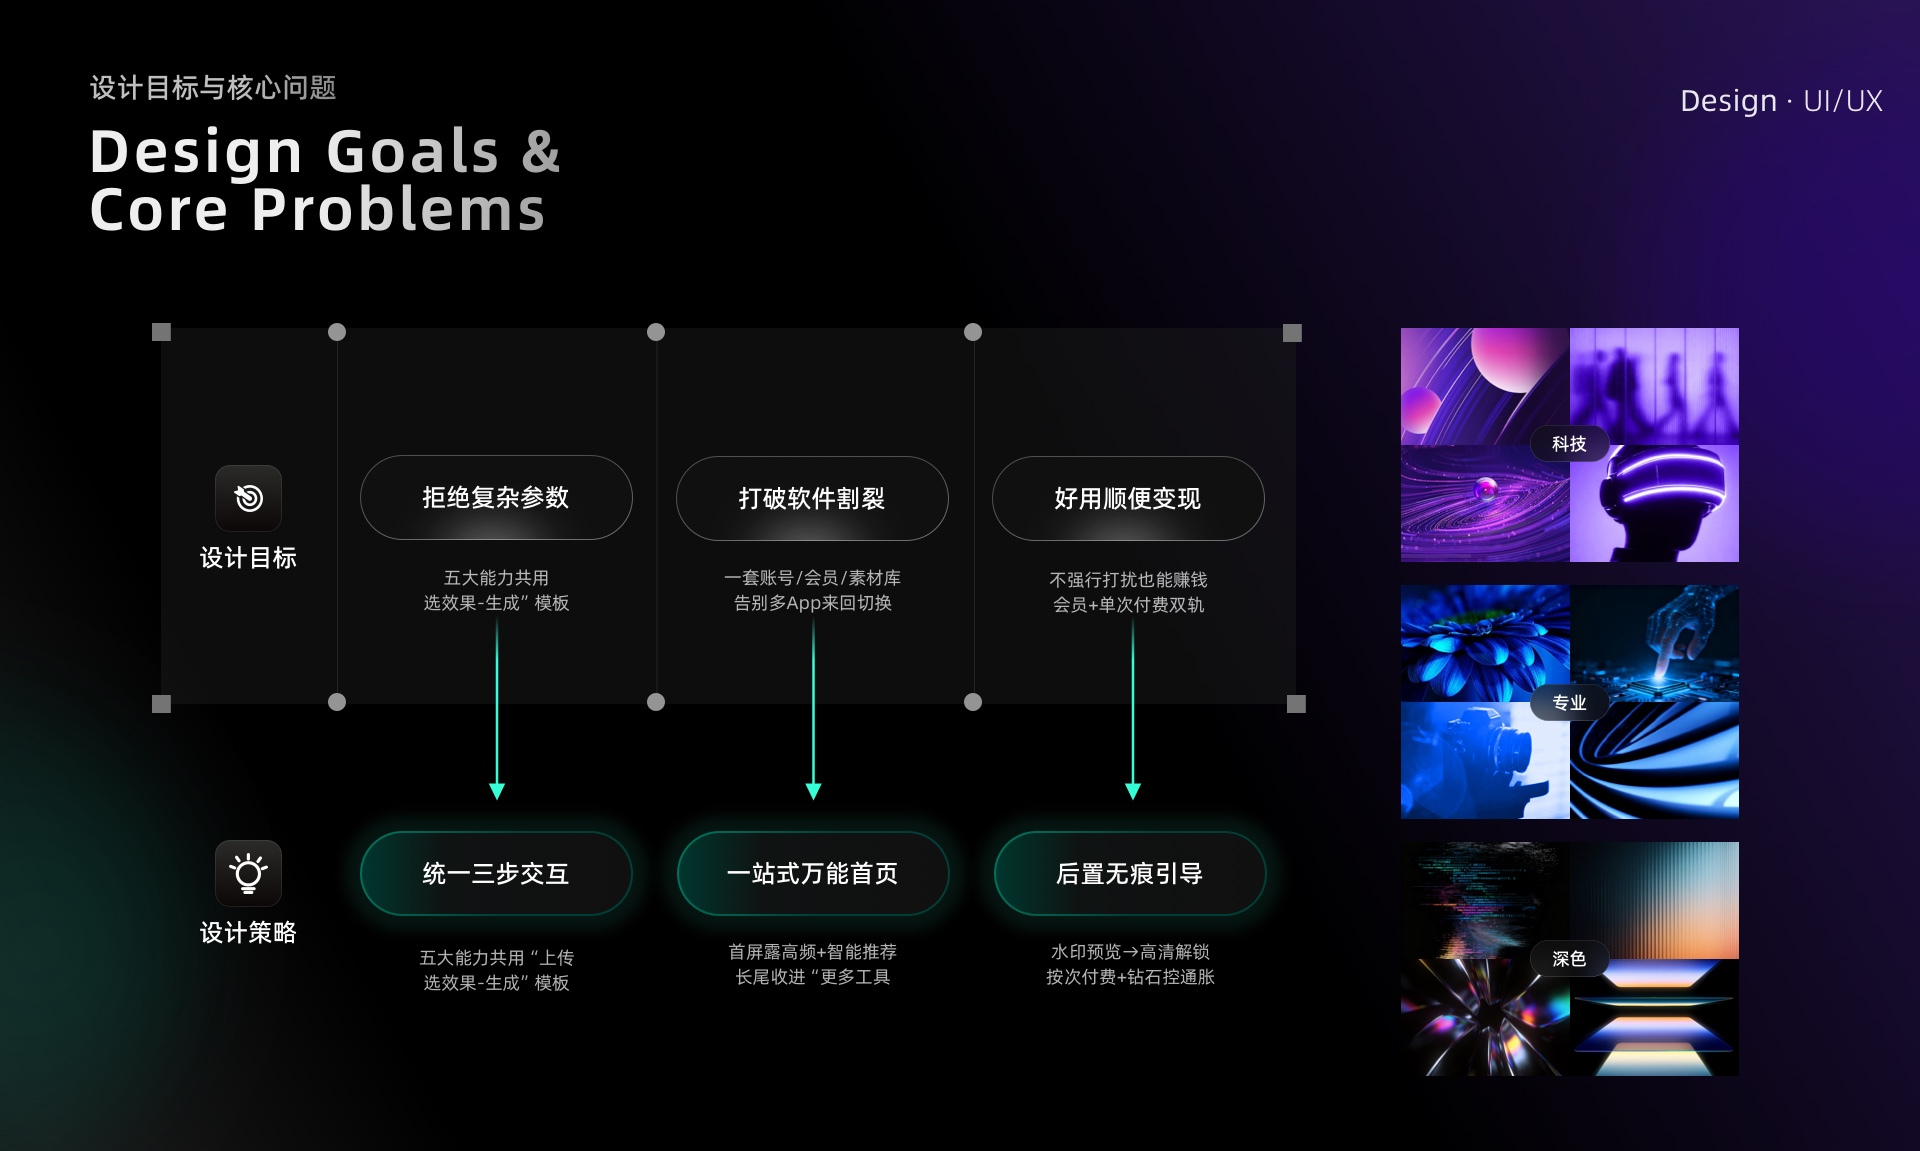
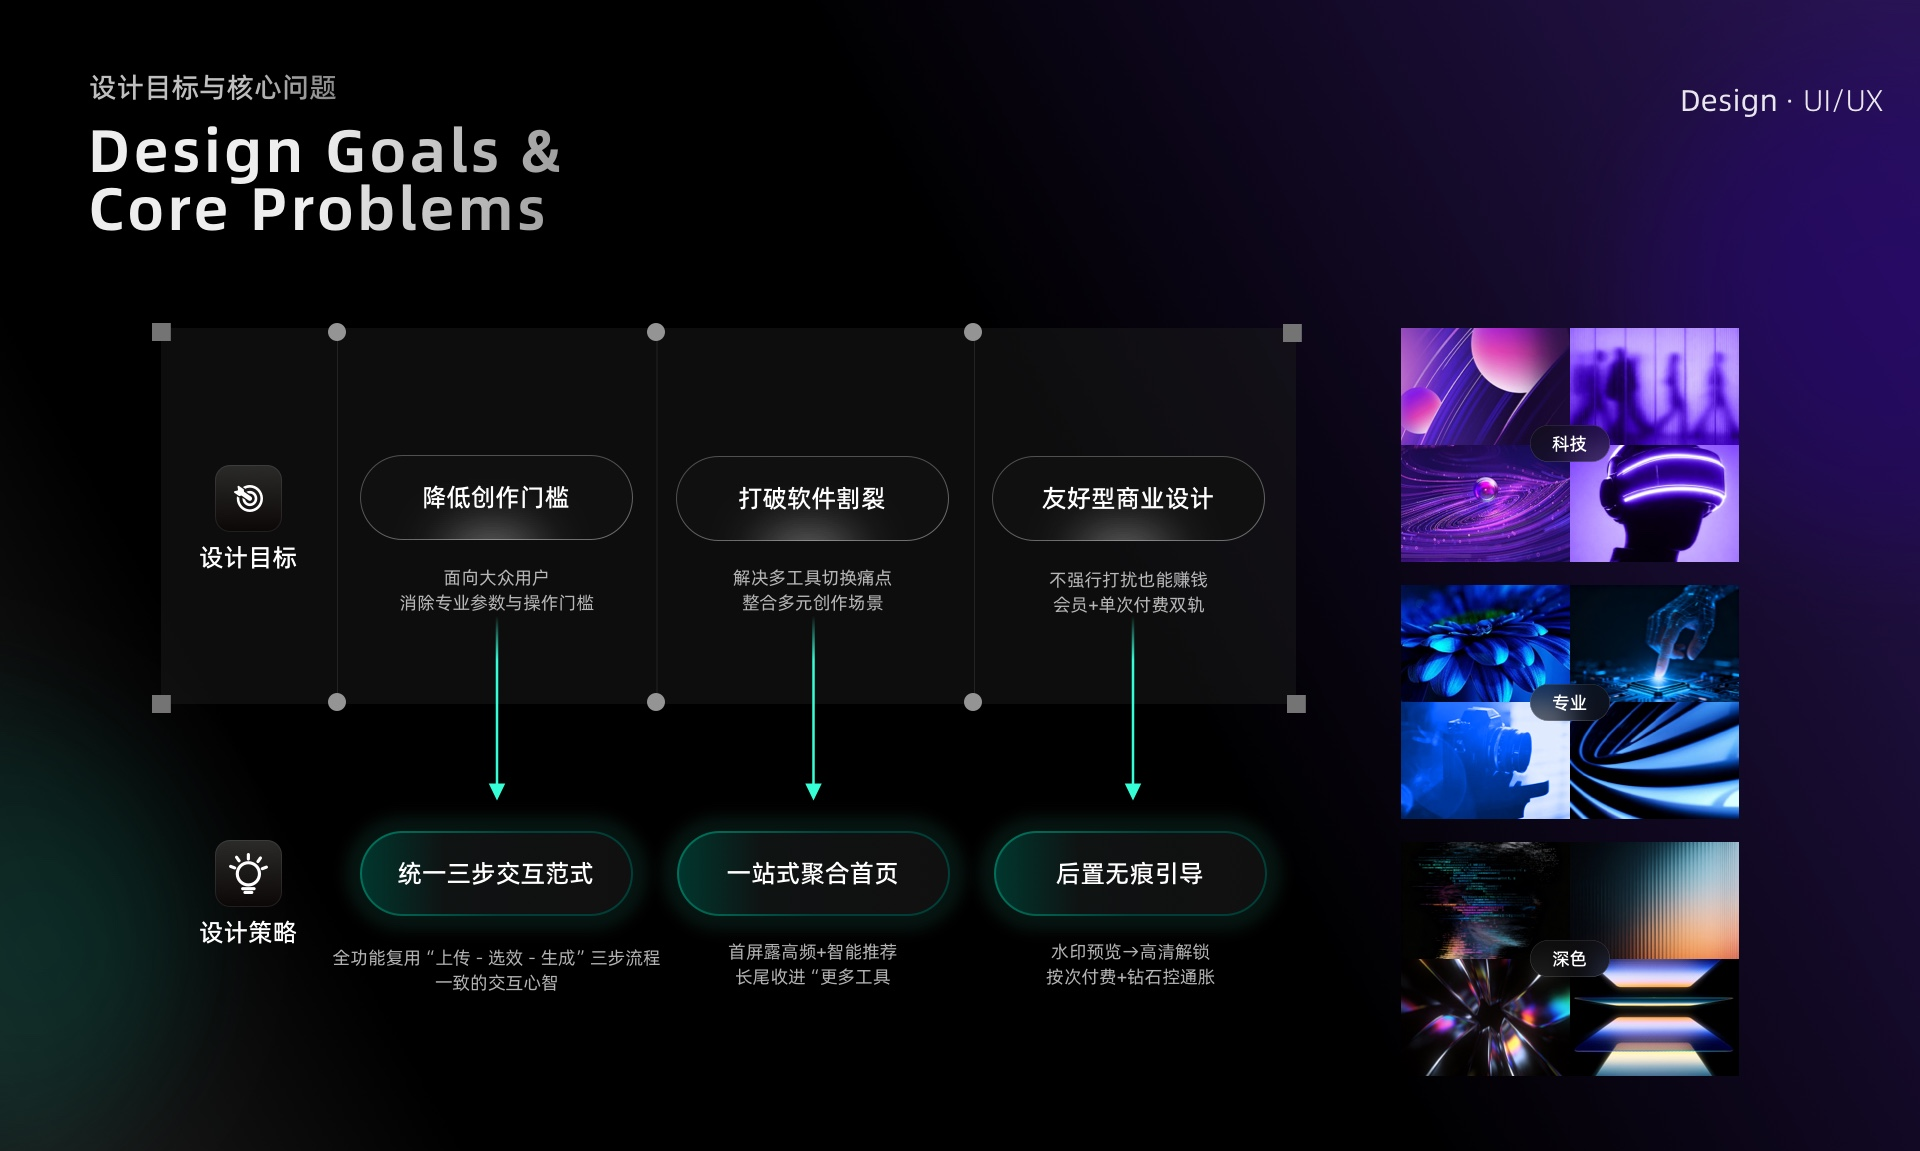
AI 轮播箭头换图+尺寸优化、视频高度/间距调整、手机端首屏间距、图灵灵详情图更新

diff --git a/index.html b/index.html
@@ -747,7 +747,7 @@
     nav#navbar { top: 12px; width: calc(100% - 24px); padding: 5px; }
     nav#navbar.scrolled { width: calc(100% - 24px); }
     .nav-links a { font-size: 13px; padding: 8px 14px; gap: 6px; }
-    .hero { padding-top: 64px; padding-bottom: 40px; }
+    .hero { padding-top: 84px; padding-bottom: 40px; } /* 手机端：导航与下方徽标间距 +20px */
     .hero h1 .hero-name { font-size: 62px; }
     .hero h1 .hero-role { font-size: 22px; margin-top: 10px; }
     .hero-stats { grid-template-columns: repeat(3, 1fr); gap: 10px; }
@@ -768,7 +768,7 @@
 
 
   /* ── AI 灵感 ── */
-  .ai-section { position: relative; }
+  .ai-section { position: relative; padding-bottom: 24px; }
   .ai-marquee {
     width: 100vw;
     margin-left: calc(50% - 50vw); /* 通栏：铺满整个屏幕宽度，卡片从屏幕外滑入 */
@@ -778,31 +778,29 @@
   .ai-track {
     display: flex; gap: 18px; width: max-content;
     align-items: flex-start;
-    transition: transform 0.65s cubic-bezier(0.22, 1, 0.36, 1);
+    transition: transform 0.5s cubic-bezier(0.22, 1, 0.36, 1);
     will-change: transform;
   }
   .ai-wrap { position: relative; }
   .ai-nav { display: flex; justify-content: flex-end; gap: 10px; margin-top: 16px; padding: 0 4px; }
   .ai-nav-btn {
-    width: 38px; height: 38px;
-    border-radius: 50%;
-    border: 1px solid rgba(255,255,255,0.14);
-    -webkit-backdrop-filter: blur(14px);
-    backdrop-filter: blur(14px);
-    display: flex; align-items: center; justify-content: center;
+    position: relative;
+    width: 44px; height: 44px;
+    padding: 0; border: none; background: transparent;
+    display: inline-flex; align-items: center; justify-content: center;
     cursor: pointer;
-    transition: background 0.25s, border-color 0.25s, transform 0.25s;
+    transition: transform 0.2s cubic-bezier(0.22,1,0.36,1);
+    -webkit-tap-highlight-color: transparent;
   }
-  .ai-nav-btn svg { width: 36px; height: 36px; display: block; }
-  #ai-prev { background: #3a3a40; border-color: rgba(255,255,255,0.12); color: #fff; }
-  #ai-next { background: #dcdce1; border-color: rgba(0,0,0,0.06); color: #16161a; }
-  .ai-nav-btn:hover { transform: scale(1.06); border-color: rgba(168,85,247,0.6); }
-  #ai-prev:hover { background: #45454c; }
-  #ai-next:hover { background: #ededf2; }
+  .ai-nav-btn img { position: absolute; inset: 0; width: 100%; height: 100%; display: block; }
+  .ai-nav-btn .arw-a { opacity: 0; }
+  .ai-nav-btn:active .arw-n { opacity: 0; }
+  .ai-nav-btn:active .arw-a { opacity: 1; }
+  .ai-nav-btn:hover { transform: scale(1.05); }
   .ai-nav-btn:active { transform: scale(0.92); }
   .ai-video {
     flex: 0 0 auto;
-    width: auto; height: 466px; /* 高度固定，宽度随视频原始比例 */
+    width: auto; height: 420px; /* 高度固定，宽度随视频原始比例 */
     border-radius: 16px;
     overflow: hidden;
     position: relative;
@@ -818,7 +816,7 @@
     z-index: 5;
   }
   @media (max-width: 768px) {
-    .ai-video { height: 302px; }
+    .ai-video { height: 272px; }
   }
   /* 高度固定、宽度自适应视频原始比例，完整展示不裁剪 */
   .ai-video video {
@@ -1216,10 +1214,12 @@
     </div>
     <div class="ai-nav">
       <button class="ai-nav-btn" id="ai-prev" aria-label="上一个">
-        <svg viewBox="0 0 36 36" fill="none" stroke="currentColor" stroke-width="2.6" stroke-linecap="round" stroke-linejoin="round"><path d="M22.5 11.5L14 18l8.5 6.5"/></svg>
+        <img class="arw-n" src="箭头04.svg" alt="上一个">
+        <img class="arw-a" src="箭头03.svg" alt="">
       </button>
       <button class="ai-nav-btn" id="ai-next" aria-label="下一个">
-        <svg viewBox="0 0 36 36" fill="none" stroke="currentColor" stroke-width="2.6" stroke-linecap="round" stroke-linejoin="round"><path d="M13.5 11.5L22 18l-8.5 6.5"/></svg>
+        <img class="arw-n" src="箭头02.svg" alt="下一个">
+        <img class="arw-a" src="箭头01.svg" alt="">
       </button>
     </div>
   </div>
@@ -2092,16 +2092,21 @@
     var aiIndex = 0;
     var aiBusy = false;
     var aiTimer = null;
+    var aiBusyTimer = null;
+    var aiOffsets = [0];
     function aiGap() { return parseFloat(getComputedStyle(aiTrack).gap) || 18; }
-    function aiOffset(i) {
-      var w = 0;
-      for (var k = 0; k < i; k++) { w += aiItems[k % aiItems.length].getBoundingClientRect().width + aiGap(); }
-      return w;
+    /* 缓存累计位移：点击时不读布局，减少卡顿 */
+    function aiRebuild() {
+      var w = 0, arr = [0], n = aiItems.length;
+      for (var k = 0; k < n; k++) { w += aiItems[k].getBoundingClientRect().width + aiGap(); arr.push(w); }
+      aiOffsets = arr;
     }
     function aiSetPos(instant) {
+      var off = aiOffsets[Math.min(aiIndex, aiOffsets.length - 1)] || 0;
       aiTrack.style.transition = instant ? 'none' : '';
-      aiTrack.style.transform = 'translateX(' + (-aiOffset(aiIndex)) + 'px)';
+      aiTrack.style.transform = 'translateX(' + (-off) + 'px)';
     }
+    function aiReleaseBusy() { aiBusy = false; }
     function aiRestart() {
       if (aiTimer) { clearInterval(aiTimer); aiTimer = null; }
       if (!prefersReduced) aiTimer = setInterval(aiNext, 4000);
@@ -2110,6 +2115,8 @@
       if (aiBusy) return;
       aiIndex++;
       aiBusy = true;
+      clearTimeout(aiBusyTimer);
+      aiBusyTimer = setTimeout(aiReleaseBusy, 600); /* 兜底：过渡被中断也能立刻响应下次点击 */
       aiSetPos(false);
       aiRestart();
     }
@@ -2118,6 +2125,8 @@
       if (aiIndex === 0) { aiIndex = aiItems.length; aiSetPos(true); }
       aiIndex--;
       aiBusy = true;
+      clearTimeout(aiBusyTimer);
+      aiBusyTimer = setTimeout(aiReleaseBusy, 600);
       aiSetPos(false);
       aiRestart();
     }
@@ -2125,6 +2134,7 @@
       if (ev.target !== aiTrack || ev.propertyName !== 'transform') return;
       if (aiIndex >= aiItems.length) { aiIndex = 0; aiSetPos(true); }
       aiBusy = false;
+      clearTimeout(aiBusyTimer);
     });
     $('#ai-next').addEventListener('click', aiNext);
     $('#ai-prev').addEventListener('click', aiPrev);
@@ -2132,9 +2142,11 @@
       aiWrap.addEventListener('mouseenter', function () { if (aiTimer) { clearInterval(aiTimer); aiTimer = null; } });
       aiWrap.addEventListener('mouseleave', aiRestart);
     }
-    window.addEventListener('resize', function () { aiSetPos(true); });
-    aiTrack.addEventListener('loadedmetadata', function () { aiSetPos(true); }, true);
-    aiTrack.addEventListener('loadeddata', function () { aiSetPos(true); }, true);
+    function aiRefresh() { aiRebuild(); aiSetPos(true); }
+    window.addEventListener('resize', aiRefresh);
+    aiTrack.addEventListener('loadedmetadata', aiRefresh, true);
+    aiTrack.addEventListener('loadeddata', aiRefresh, true);
+    aiRebuild();
     aiSetPos(true);
     aiRestart();
 
